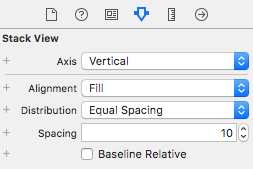
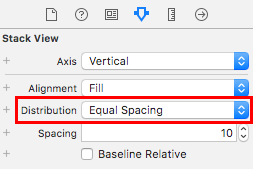
Update description

Changed region(s): [[0.0553, 0.5621, 1.0, 0.7396]]

diff --git a/DESCRIPTION.md b/DESCRIPTION.md
@@ -1,157 +1,53 @@
-Instagramライクなパン/ピンチ操作できるイメージビューの作成
+制約の修正なしで縦方向に要素を追加可能なビューの作成
 
 ## 概要
-Instagramアプリのようなパン/ピンチ操作を受け取り、拡大/移動ができるイメージビューを作成する方法です。
-サンプルでは、パン操作とピンチ操作を使用していますが、同じ方法で回転(Rotation gesture)することもできます。
+タイトルが長ったらしいですが、オートレイアウトでビューを組版している時、後から機能追加が発生し、「途中にビューを追加したい！」、「最後にビューを追加したい！」ってなると非常に面倒です。
+そこで、Scroll ViewとStack Viewを組み合わせることで、AndroidでいうLinearLayoutっぽいものを実現できます。
 
-![animation](https://github.com/ayakix/Scale-ImageView/raw/master/images/animation.gif)
+![image9](images/image9.png)
 
-## Interface Builder構築手順
-### 1.フィルタービューの追加
-イメージビューの下の階層に透明なビューを用意します。
-イメージビューが操作を受け取り拡大率に応じて、フィルタービューの背景色を濃くすることで画像を見やすくします。
+## 構築手順
+### 1.Scroll Viewの配置
+基盤となるViewの全画面にScroll Viewを配置します。
 
-![image1](https://github.com/ayakix/Scale-ImageView/raw/master/images/image1.png)
+![image1](images/image1.png)
 
-### 2.イメージビューの追加
-フィルタービューの上の階層にイメージビューを配置します。
-User Interaction EnabledとMultiple Touchにチェックをします。
+Add New Constraintsで上下左右全てのマージンを0とします。
 
-![image2](https://github.com/ayakix/Scale-ImageView/raw/master/images/image2.png)
+![image2](images/image2.png)
 
-### 3.パン/ピンチジェスチャーの追加
-Pan Gesture RecognizerおよびPinch Gesture Recognizerをイメージビューの上にドラッグ＆ドロップします。
-また、delegateおよびIBActionをViewControllerにセットします。
+### 2.Stack Viewの配置
+Scroll viewの子要素として、Vertical Stack Viewを配置します。
+手順1と同様に、Add New Constraintsで上下左右全てのマージンを0とします。
 
-![image3](https://github.com/ayakix/Scale-ImageView/raw/master/images/image3.png)
+![image3](images/image3.png)
 
-### 4.パンジェスチャーのプロパティ
-1本指では、パン操作を受け付けたくない場合には、Touchesを2に変更します。
+しかし、このままではScroll Viewのコンテントサイズの制約がないためエラーがでます。
+![image4](images/image4.png)
 
-![image4](https://github.com/ayakix/Scale-ImageView/raw/master/images/image4.png)
+### 3.Scroll Viewコンテンツサイズの横幅の制約
+Controlキーを押しながらStack Viewを選択し、Scroll Viewへドラッグします。
+![image5](images/image5.png)
 
-## プログラム説明
-### TransformProperty構造体
-イメージビューの変形状態を保持します。
+**Equla Widths** を選択し、Stack Viewの横幅をScroll Viewコンテントの横幅と揃える制約をつけます。
 
-```swift
-fileprivate struct TransformProperty {
-    private let kMaxBackgroundAlpha: CGFloat = 0.77
-    private let kMinBackgroundAlpha: CGFloat = 0.4
+![image6](images/image6.png)
 
-    var point: CGPoint
-    var scale: CGFloat
-    var backgroundAlpha: CGFloat {
-        didSet {
-            // Round the value
-            backgroundAlpha = min(kMaxBackgroundAlpha, max(kMinBackgroundAlpha, backgroundAlpha))
-        }
-    }
+### 4.Scroll Viewコンテンツサイズの高さ（=Stack Viewの高さ）の制約
+手順2により、Scroll Viewコンテンツサイズの高さ=Stack Viewの高さなため、Stack Viewの高さを決定します。様々なやり方があるのですが、ここでは、Stack Viewに配置されているビュー間のマージンが同じになるDistribution=Equal Spacingを例に取り説明します。
 
-    init() {
-        point = CGPoint(x: 0, y: 0)
-        scale = 1.0
-        backgroundAlpha = kMinBackgroundAlpha
-    }
-}
-```
+![image7](images/image7.png)
 
-### ViewControllerとIBAction
-onPinchGestureとonPanGestureで操作を受け取り、イメージビューを変形します。
+Stack Viewの子要素として適当なViewを追加します。
+このViewの高さに制約を設けます。
 
-```swift
-class ViewController: UIViewController {
-    @IBOutlet fileprivate weak var filterView: UIView!
-    @IBOutlet fileprivate weak var imageView: UIImageView!
+![image8](images/image8.png)
 
-    lazy fileprivate var transformProperty = TransformProperty()
+Viewの高さが決定できると、Stack Viewの高さが決定でき、Scroll Viewのコンテンツサイズの高さが決まるため、エラーがなくなります。
 
-    override func viewDidLoad() {
-        super.viewDidLoad()
+以後、このStack Viewの子要素として、高さが決定しているViewを追加すれば、他のビューの制約を修正する必要はなくなります。
 
-        // Bring the expanded view to the forefront if needed
-//        self.view.bringSubview(toFront: imageView)
-    }
-
-    @IBAction private func onPinchGesture(_ sender: UIPinchGestureRecognizer) {
-        switch sender.state {
-        case .changed:
-            let scale = sender.scale
-            if scale <= 1 {
-                break
-            }
-            transformProperty.scale = (sender.scale - 1.0) * 0.5 + 1.0
-            transform()
-            // Darken the background color when scaled
-            transformProperty.backgroundAlpha = (sender.scale - 1.0) * 0.8
-            changeBaseViewBackgroundColor()
-        case .ended, .cancelled:
-            revertTransform()
-        default:
-            break
-        }
-    }
-
-    @IBAction private func onPanGesture(_ sender: UIPanGestureRecognizer) {
-        guard let view = sender.view else {
-            return
-        }
-        switch sender.state {
-        case .changed:
-            transformProperty.point = sender.translation(in: view)
-            transform()
-            changeBaseViewBackgroundColor()
-        case .ended, .cancelled:
-            revertTransform()
-        default:
-            break
-        }
-    }
-}
-```
-
-### イメージビューの変形
-transformPropertyの値に基づき、イメージビューを変形します。
-指が離れて、操作が終わった時には、アニメーションを使って、元の位置にイメージビューを戻します。
-
-```swift
-fileprivate extension ViewController {
-    func transform() {
-        imageView.transform = CGAffineTransform(translationX: transformProperty.point.x, y: transformProperty.point.y)
-            .scaledBy(x: transformProperty.scale, y: transformProperty.scale)
-    }
-
-    func revertTransform() {
-        transformProperty = TransformProperty()
-        UIView.animate(withDuration: 0.6, delay: 0.0, usingSpringWithDamping: 0.8, initialSpringVelocity: 1.0, options: .curveEaseOut, animations: { () -> Void in
-            self.imageView.transform = CGAffineTransform.identity
-            self.transform()
-            self.filterView.backgroundColor = UIColor.clear
-        }, completion: nil)
-    }
-
-    func changeBaseViewBackgroundColor() {
-        filterView.backgroundColor = UIColor(red: 0.0, green: 0.0, blue: 0.0, alpha: transformProperty.backgroundAlpha)
-    }
-}
-```
-
-### UIGestureRecognizerDelegateの実装
-trueを返すことにより、一つのジェスチャー中に他のジェスチャーも受け取ることができます。
-
-```swift
-extension ViewController: UIGestureRecognizerDelegate {
-    func gestureRecognizer(_ gestureRecognizer: UIGestureRecognizer, shouldRecognizeSimultaneouslyWith otherGestureRecognizer: UIGestureRecognizer) -> Bool {
-        return true
-    }
-}
-```
-
+今回の例では、縦方向に要素を追加するサンプルについて説明しましたが、Horizontal Stack Viewを使えば同様の処理を横方向についても実現できます。
 
 ## サンプル
-[Scale-ImageView@github](https://github.com/ayakix/Scale-ImageView)に動作するプロジェクトがあります。
-
-
-## 動作確認
-このTipsは、「スマホの写真素材が売買できるサイト[Snapmart](https://snapmart.jp/)」を開発する中で生まれました。
-実際の動作を[Snapmartアプリ（iOS）](https://itunes.apple.com/jp/app/id1087206878)から確認できますので、是非ダウンロードしてみてください！
+[Scroll-Stack-Content@github](https://github.com/ayakix/Scroll-Stack-Content)に動作するプロジェクトがあります。

diff --git a/README.md b/README.md
@@ -1,4 +1,4 @@
-Scale ImageView like Instagram app
+Creating views that can add elements vertically without modification of constraints
 ===========
 
 [![Platform](http://img.shields.io/badge/platform-ios-blue.svg?style=flat
@@ -9,10 +9,9 @@ Scale ImageView like Instagram app
 )](http://mit-license.org)
 
 # Overview
-This is a sample program that creates a scale image view like Instagram app.
-This ImageView responds to pan and pinch gestures.
+This is a sample program that create views that can add elements vertically without modification of constraints on Interface Builder.
 
-![screen_shot](images/animation.gif)
+![image9](images/image9.png)
 
 ## Author
 
